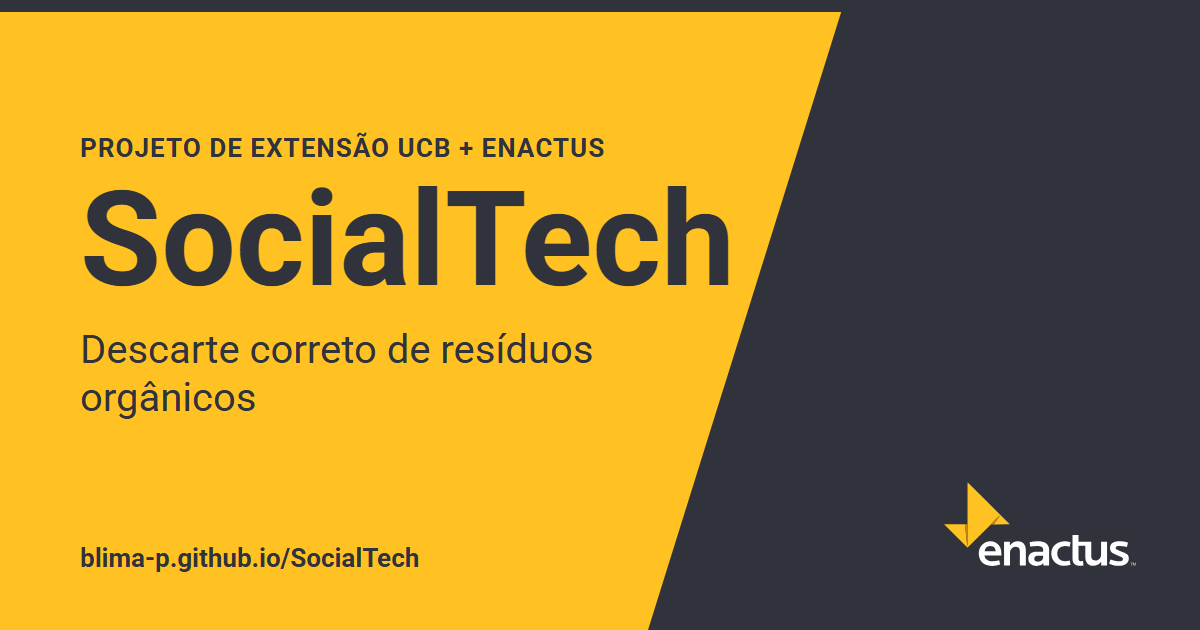
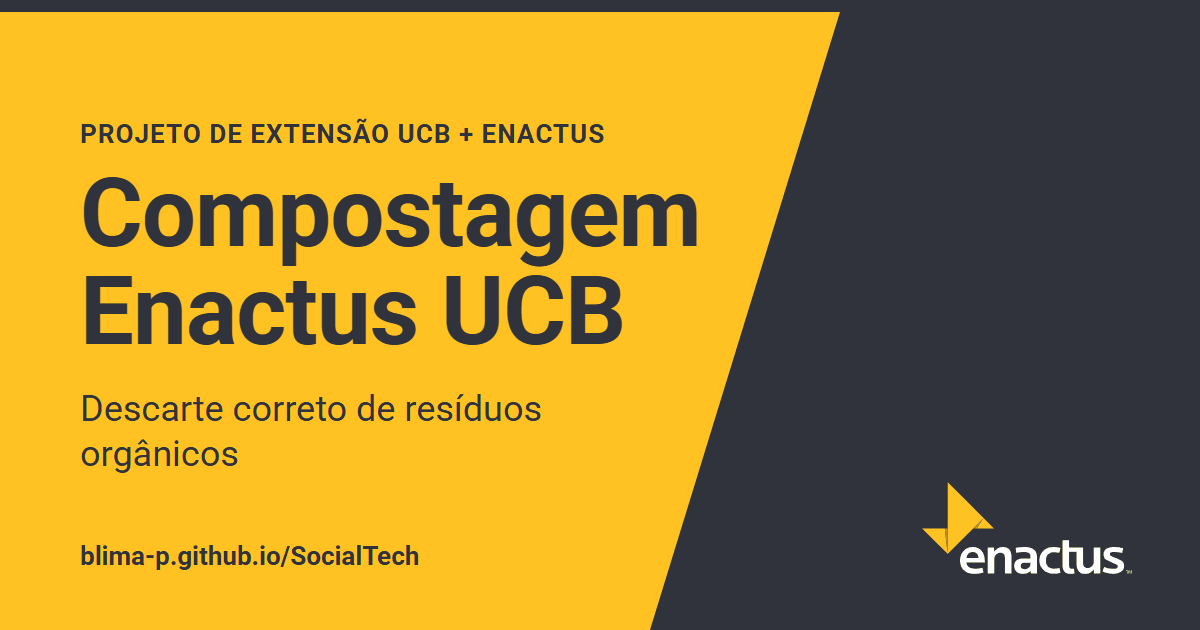
feat(identidade): apresenta o site como "Compostagem Enactus UCB" (#85)
T-30. Closes #73

diff --git a/docs/arquitetura.md b/docs/arquitetura.md
@@ -135,7 +135,7 @@ A página `src/pages/index.astro` só compõe os componentes, na ordem da seçã
 
 A página `src/pages/404.astro` vira o `404.html`, que o GitHub Pages mostra em qualquer endereço inexistente dentro de `/SocialTech/`. Ela leva de volta ao início e às seções principais (links com `BASE_URL` completo), não é indexada (`noindex`) e não é contada no GoatCounter (T-25).
 
-**Prévia de compartilhamento (T-25).** O `BaseLayout` gera as metatags Open Graph (`og:title`, `og:description`, `og:url`, `og:image`) e o `link rel="canonical"`, sempre com endereço absoluto (`Astro.site` + `BASE_URL`). A imagem é `public/compartilhar.png` (1200 × 630 px, menos de 300 KB, como o WhatsApp exige). Não há `robots.txt` nem `sitemap.xml`: num site de projeto do GitHub Pages, o `robots.txt` só vale na raiz do domínio (`blima-p.github.io`, que é outro repositório), e o sitemap só ajudaria se fosse enviado ao Google Search Console.
+**Prévia de compartilhamento (T-25).** O `BaseLayout` gera as metatags Open Graph (`og:title`, `og:description`, `og:url`, `og:image`) e o `link rel="canonical"`, sempre com endereço absoluto (`Astro.site` + `BASE_URL`). A imagem é `public/compartilhar.png` (1200 × 630 px, até 100 KB desde a T-30, com o nome "Compostagem Enactus UCB"; o WhatsApp aceita até 300 KB). Não há `robots.txt` nem `sitemap.xml`: num site de projeto do GitHub Pages, o `robots.txt` só vale na raiz do domínio (`blima-p.github.io`, que é outro repositório), e o sitemap só ajudaria se fosse enviado ao Google Search Console.
 
 ## 4. Arquitetura da informação
 
@@ -165,7 +165,7 @@ Seções sem conteúdo (impacto vazio, quiz vazio, formulário sem link) **não 
 │ [logo Enactus]               │  barra branca
 │ O que pode · Onde está a l…→ │  menu em faixa (rola de lado, T-27)
 ├──────────────────────────────┤
-│ SocialTech            (h1)   │  destaque amarelo
+│ Compostagem Enactus UCB (h1) │  destaque amarelo
 │ Descarte correto de resíduos │
 │ [ O que pode ir na lixeira? ]│  botão escuro → #guia
 ├──────────────────────────────┤
